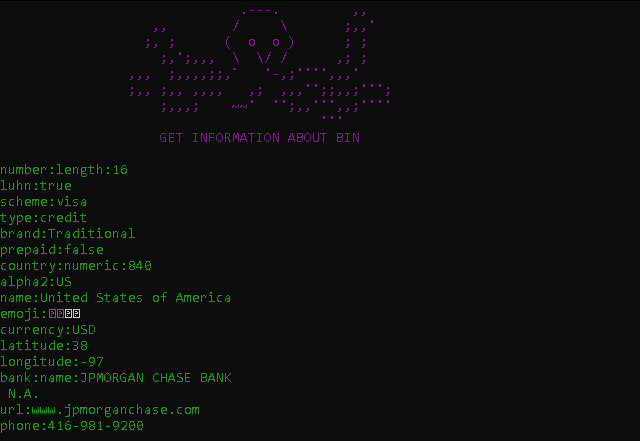
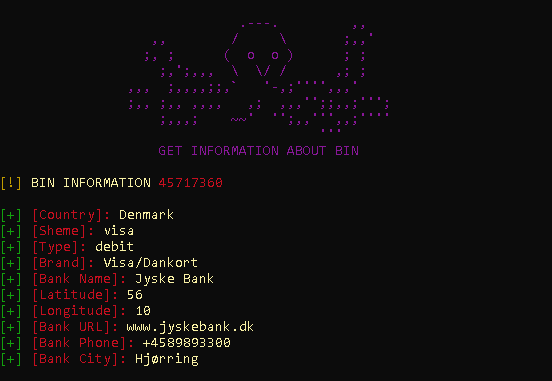
AZATHOT v.1.3.0

diff --git a/tools/azathot/bin_info.py b/tools/azathot/bin_info.py
@@ -1,4 +1,4 @@
-import os, requests
+import os, requests, json, sys
 from time import sleep
 from huepy import *
 
@@ -37,26 +37,41 @@ def Bin_Info():
         
         try:
             
-            BIN = input(red("BIN > "))
+            BIN = input(red("   BIN > "))
             clean(); banner()
 
-            MAPPING = { ord('"'):"", ord(","):"\n", ord("}"):"", ord("{"):"" }
-            POST = requests.post(API+BIN)
+            data = requests.get(API+BIN).json()
+            sys.stdout.flush()
 
-            if """<!DOCTYPE html>""" in POST.text:
-                print(bad(yellow("Follow Directions...")))
-
-            else:
-                print(green(POST.text.translate(MAPPING)))
+            print(info(yellow("BIN INFORMATION " +red(BIN + "\n"))))
+            sleep(0.7)
+            print(good(red("[Country]: " +yellow(data['country']['name']))))
+            sleep(0.7)
+            print(good(red("[Sheme]: " +yellow(data['scheme']))))
+            sleep(0.7)
+            print(good(red("[Type]: " +yellow(data['type']))))
+            sleep(0.7)
+            print(good(red("[Brand]: " +yellow(data['brand']))))
+            sleep(0.7)
+            print(good(red("[Bank Name]: " +yellow(data['bank']['name']))))
+            sleep(0.7)
+            print(good(red("[Latitude]: " +yellow(data['country']['latitude']))))
+            sleep(0.7)
+            print(good(red("[Longitude]: " +yellow(data['country']['longitude']))))
+            sleep(0.7)
+            print(good(red("[Bank URL]: " +yellow(data['bank']['url']))))
+            sleep(0.7)
+            print(good(red("[Bank Phone]: " +yellow(data['bank']['phone']))))
+            sleep(0.7)
+            print(good(red("[Bank City]: " +yellow(data['bank']['city']))))
 
         except:
 
-            clean()
-            banner()
             print(bad(yellow("An Error Ocurred...")))
             exit()
 
     main()
+
 
 if __name__ == "__main__":
 

diff --git a/tools/azathot/azathot.py b/tools/azathot/azathot.py
@@ -1,0 +1,33 @@
+import argparse, sys, os, time
+from huepy import *
+
+if __name__ == "__main__":
+
+    parser = argparse.ArgumentParser()
+    parser.add_argument("--tool", '-t', type= str, metavar= "[ BIN-INFO | temp-mail | CC-GEN ]", 
+                                help="Carding tools", default="Choise option")
+
+    args = parser.parse_args()
+    tool = str(args.tool).lower()
+
+    if tool == 'bin-info':
+        import tools.azathot.bin_info
+
+    elif tool == 'temp-mail':
+        os.system('cls') if os.name == 'nt' else os.system('clear')
+        print(info(red("[ Q ] Exit.")))
+        time.sleep(0.7)
+        print(good("Generating Temp-Email."))
+        time.sleep(5)
+        os.system("w3m https://temp-mail.org/es/")
+
+    elif tool == 'cc-gen':
+        pass
+    
+
+    elif tool == 'checker':
+        print(bad(yellow("This tool was deleted")))
+
+    else:
+        print(red("\n Carding ToolKit > Azathot \n"))
+        os.system('python azathot.py -h')

diff --git a/README.md b/README.md
@@ -1,15 +1,15 @@
 <p align="center">
-<img width="350px" height="350px" src="https://i.postimg.cc/FFnLKZ0S/Checker.png" title="AZATHOT > CHECKER" >
+<a href="https://github.com/ByDog3r/azathot"><img width="250px" height="250px" src="https://i.postimg.cc/FFnLKZ0S/Checker.png" title="AZATHOT > CHECKER" >
 </p>
 
 <p align="center">
 <a href="https://github.com/ByDog3r"><img title="Autor" src="https://img.shields.io/badge/Author-@ByDog3r-blue?style=for-the-badge&logo=github"></a>
-<a href=""><img title="Version" src="https://img.shields.io/badge/Version-1.2.1-red?style=for-the-badge&logo="></a>
+<a href=""><img title="Version" src="https://img.shields.io/badge/Version-1.3.0-red?style=for-the-badge&logo="></a>
 </p>
 
 <p align="center">
 <a href=""><img title="System" src="https://img.shields.io/badge/Supported%20OS-Linux%20&%20termux-orange?style=for-the-badge&logo=linux"></a>
-
+<a href="https://www.python.org/"><img title="Python" src="https://img.shields.io/badge/Python-3.7-yellow?style=for-the-badge&logo=python"></a>
 </p>
 
 <p align="center">
@@ -18,12 +18,8 @@
 
 ## INSTALL: 
 
-> Download   [WebDriver Chrome.](https://chromedriver.chromium.org/downloads)
-
 ```bash
      LINUX AND TERMUX ARE THE SAME
-
-# Download Chrome Web Driver
 
 # In directory where we want to clone the git:
 $ git clone https://github.com/ByDog3r/azathot
@@ -32,10 +28,10 @@ $ git clone https://github.com/ByDog3r/azathot
 $ cd azathot
 
 # we give execution permissions:
-$ chmod +x azathot.py
+$ chmod +x package.sh
 
 # Install Dependencies:
-$ pip install -r requirements.txt
+$ ./package.sh
 
 # Finally execute the script:
 $ python azathot.py
@@ -44,7 +40,7 @@ $ python azathot.py
 > azathot.py -h
 
 ```python
-usage: python azathot.py [-h] [--tool <BIN-INFO | CHECKER >]
+usage: python azathot.py [-h] [--tool < BIN-INFO | TEMP-EMAIL | CC-GEN >]
     Try:
          python azathot.py --help or use python azathot.py --tool
 optional arguments:
@@ -57,4 +53,4 @@ optional arguments:
 
 |  USAGE         |       BIN-INFO         |	   CHECKER        |
 | -------------- | ---------------------- | ----------------  |  
-|![USAGE](https://github.com/ByDog3r/azathot/blob/ByDog3r/tools/doc/images/usage.png)|![BIN-INFO](https://github.com/ByDog3r/azathot/blob/ByDog3r/tools/doc/images/binfo.png)|![CHECKER](https://github.com/ByDog3r/azathot/blob/ByDog3r/tools/doc/images/checker.png)|
+|![USAGE](https://github.com/ByDog3r/azathot/blob/ByDog3r/tools/doc/images/usage.png)|![BIN-INFO](https://github.com/ByDog3r/azathot/blob/ByDog3r/tools/doc/images/binfo.png)|![TEMP-EMAIL](https://github.com/ByDog3r/azathot/blob/ByDog3r/tools/doc/images/checker.png)|

diff --git a/tools/doc/spanish/README.md b/tools/doc/spanish/README.md
@@ -4,7 +4,7 @@
 
 <p align="center">
 <a href="https://github.com/ByDog3r"><img title="Autor" src="https://img.shields.io/badge/Author-@ByDog3r-blue?style=for-the-badge&logo=github"></a>
-<a href=""><img title="Version" src="https://img.shields.io/badge/Version-1.2.1-red?style=for-the-badge&logo="></a>
+<a href=""><img title="Version" src="https://img.shields.io/badge/Version-1.3.0-red?style=for-the-badge&logo="></a>
 </p>
 
 <p align="center">
@@ -18,33 +18,29 @@
 
 ## INSTALACIÓN: 
 
-> Descargar   [WebDriver Chrome.](https://chromedriver.chromium.org/downloads)
-
 ```bash
-     Linux y Termux es lo mismo.
+     Linux & Termux es lo mismo.
 
-# Descarga el Web Driver de Chrome.
-
-# En el directorio deseado a clonar:
+# En el directorio deseado, clonamos el repositorio:
 $ git clone https://github.com/ByDog3r/azathot
 
-# Ingresar al directiorio que se nos ha creado:
+# Ingresamos al directorio creado:
 $ cd azathot
 
-# Damos permisos de ejecución al script:
-$ chmod +x azathot.py
+# Damos permisos de ejecución:
+$ chmod +x package.sh
 
-# Instalamos las dependencias:
-$ pip install -r requirements.txt
+# Instalamos dependencias:
+$ ./package.sh
 
-# Finalmente ejecutamos:
+# Finalmente ejecutamos el script:
 $ python azathot.py
 ```
 
 > azathot.py -h
 
 ```python
-usage: python azathot.py [-h] [--tool <BIN-INFO | CHECKER >]
+usage: python azathot.py [-h] [--tool < BIN-INFO | TEMP-EMAIL | CC-GEN >]
     Try:
          python azathot.py --help or use python azathot.py --tool
 optional arguments:
@@ -53,8 +49,8 @@ optional arguments:
                                         Carding tools.
 ```
 
-<h2 align="center"> DISFRUTA! </h2>
+<h2 align="center"> Disfruta! </h2>
 
 |  USO           |       BIN-INFO         |	   CHECKER        |
 | -------------- | ---------------------- | ----------------  |  
-|![USAGE](https://github.com/ByDog3r/azathot/blob/ByDog3r/tools/doc/images/usage.png)|![BIN-INFO](https://github.com/ByDog3r/azathot/blob/ByDog3r/tools/doc/images/binfo.png)|![CHECKER](https://github.com/ByDog3r/azathot/blob/ByDog3r/tools/doc/images/checker.png)|
+|![USAGE](https://github.com/ByDog3r/azathot/blob/ByDog3r/tools/doc/images/usage.png)|![BIN-INFO](https://github.com/ByDog3r/azathot/blob/ByDog3r/tools/doc/images/binfo.png)|![TEMP-EMAIL](https://github.com/ByDog3r/azathot/blob/ByDog3r/tools/doc/images/checker.png)|
